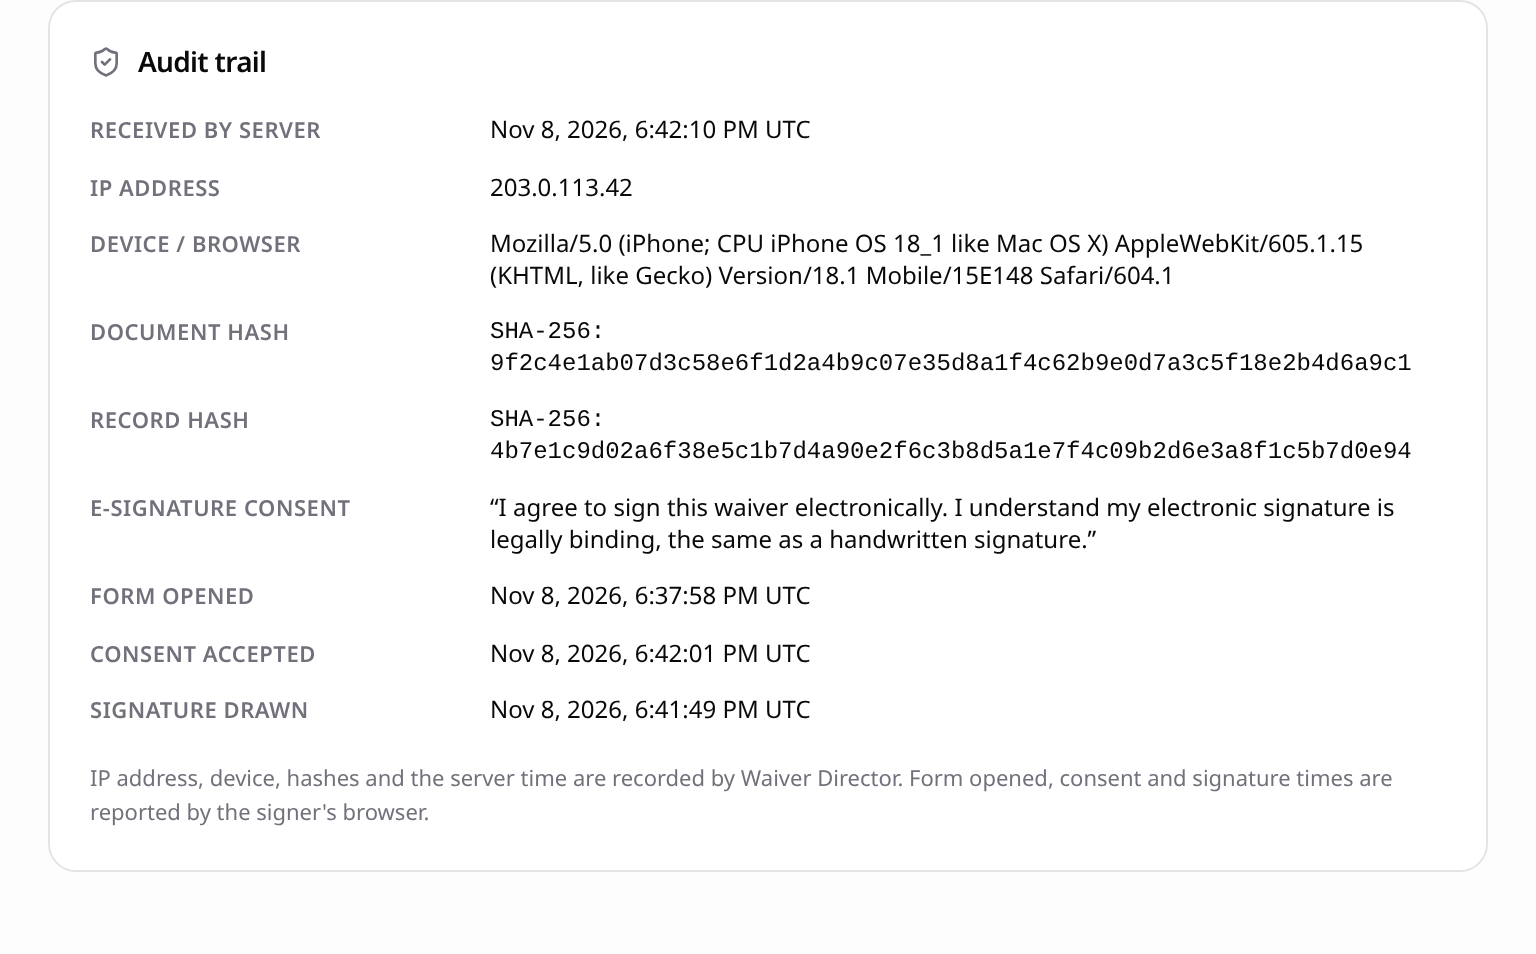
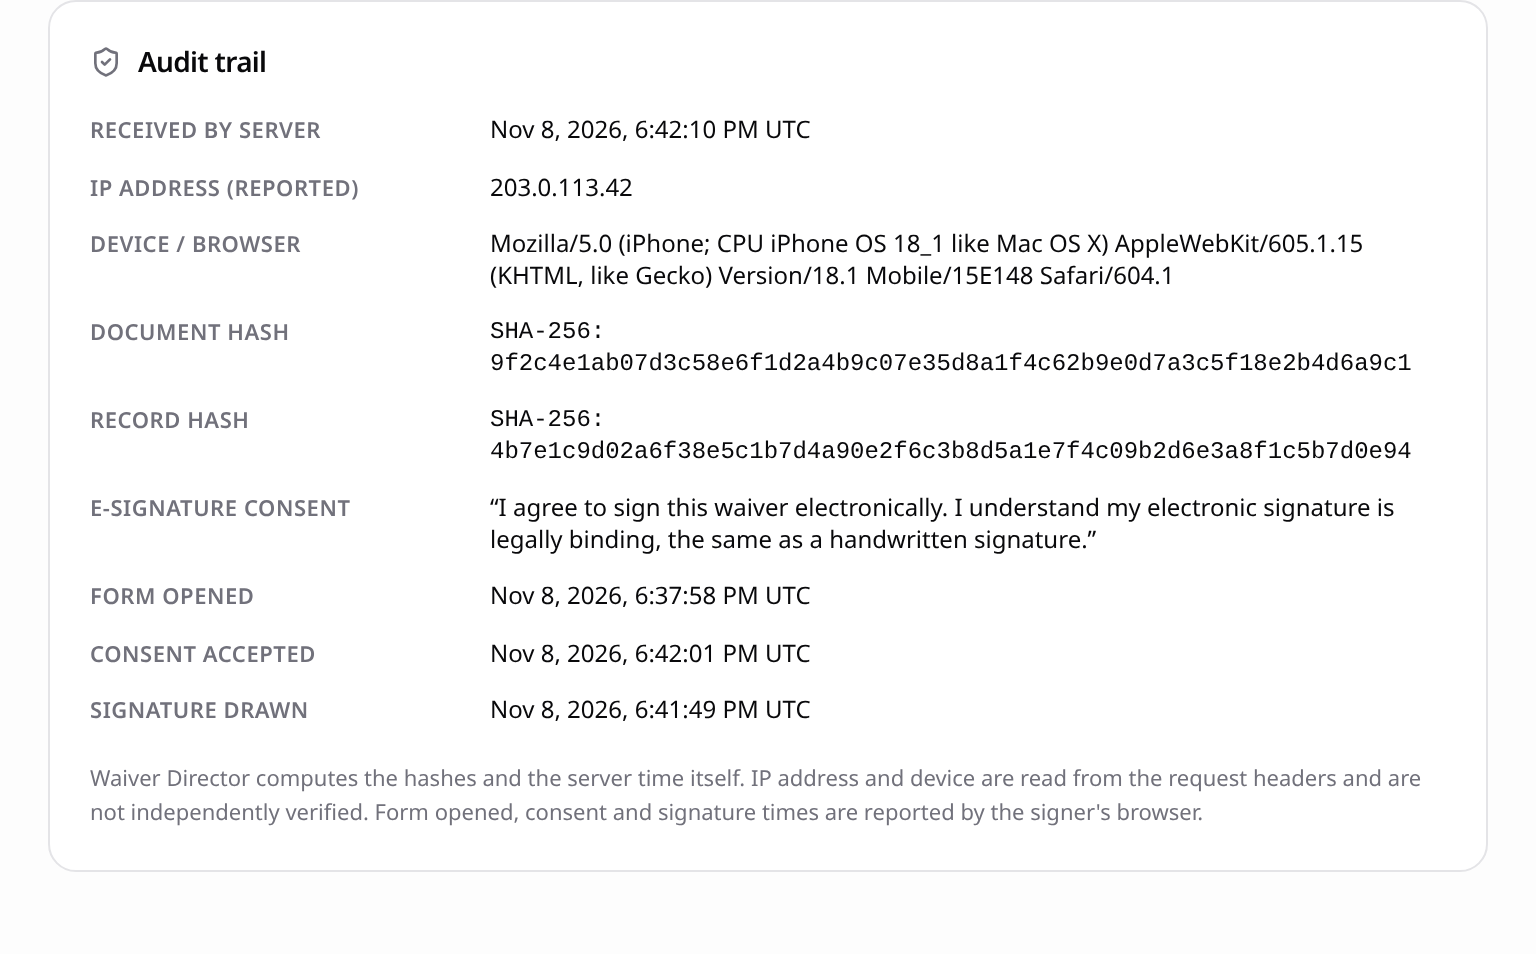
fix: stop trusting x-real-ip; require minors to be under 18
- Read the client IP only from the last x-forwarded-for hop and ignore
  x-real-ip, which a client can set. Convex does not document whether its
  edge overwrites these headers, so the audit panel and docs now label the
  IP as reported by request headers rather than verified.
- Reject minor dates of birth that make the person 18 or older on the
  signing day, or that are before 1900, on the server and in the date input.
  The server accepts the signer's calendar day being one day either side of
  UTC.

Claude-Session: https://claude.ai/code/session_01NtaqKrbvdA3EqcTHo4cfhu

Changed region(s): [[0.0625, 0.7904, 0.9062, 0.8816], [0.1562, 0.1824, 0.25, 0.2128]]

diff --git a/tests/submissionAudit.test.ts b/tests/submissionAudit.test.ts
@@ -9,6 +9,7 @@ import {
 	waiverDocumentHash,
 	waiverSubmissionHash
 } from '../src/convex/lib/audit.ts';
+import { isMinorBirthDate, minorBirthDateBounds } from '../src/lib/domain/waiver-constraints.ts';
 
 function headers(values: Record<string, string>) {
 	return new Headers(values);
@@ -64,10 +65,12 @@ test('submission hash covers signer data, minors and signature', async () => {
 	);
 });
 
-test('client IP prefers x-real-ip, then the last forwarded hop', () => {
-	assert.equal(clientIpFromHeaders(headers({ 'x-real-ip': '203.0.113.9' })), '203.0.113.9');
+test('client IP uses only the last forwarded hop and ignores x-real-ip', () => {
+	assert.equal(clientIpFromHeaders(headers({ 'x-real-ip': '203.0.113.9' })), null);
 	assert.equal(
-		clientIpFromHeaders(headers({ 'x-forwarded-for': '10.0.0.1, 198.51.100.7 ' })),
+		clientIpFromHeaders(
+			headers({ 'x-real-ip': '203.0.113.9', 'x-forwarded-for': '10.0.0.1, 198.51.100.7 ' })
+		),
 		'198.51.100.7'
 	);
 	assert.equal(clientIpFromHeaders(headers({})), null);
@@ -86,4 +89,19 @@ test('client timestamps outside a plausible window are dropped', () => {
 	assert.equal(sanitizeClientTimestamp(now - 2 * 24 * 60 * 60 * 1000, now), null);
 	assert.equal(sanitizeClientTimestamp(Number.NaN, now), null);
 	assert.equal(sanitizeClientTimestamp(undefined, now), null);
+});
+
+test('minor birth dates must be under 18 on the signing day and not before 1900', () => {
+	const today = '2026-11-08';
+	assert.deepEqual(minorBirthDateBounds(today), { min: '2008-11-09', max: '2026-11-08' });
+	assert.equal(isMinorBirthDate('2015-06-03', today), true);
+	assert.equal(isMinorBirthDate('2008-11-09', today), true);
+	assert.equal(isMinorBirthDate('2008-11-08', today), false, 'turns 18 today');
+	assert.equal(isMinorBirthDate('1975-01-01', today), false);
+	assert.equal(isMinorBirthDate('2026-11-09', today), false, 'future');
+	assert.equal(isMinorBirthDate('2015-02-30', today), false, 'invalid date');
+	assert.equal(minorBirthDateBounds('1910-03-01').min, '1900-01-01');
+	// Leap-day birthdays: born 2008-02-29 is still a minor on 2026-02-28.
+	assert.equal(isMinorBirthDate('2008-02-29', '2026-02-28'), true);
+	assert.equal(isMinorBirthDate('2008-02-29', '2026-03-01'), false);
 });

diff --git a/src/convex/lib/waivers.ts b/src/convex/lib/waivers.ts
@@ -18,6 +18,7 @@ import {
 	MIN_WAIVER_FIELD_LABEL_LENGTH,
 	MIN_WAIVER_TITLE_LENGTH
 } from '../../lib/domain/waiver-constraints';
+import { isMinorBirthDate, isValidIsoDate } from '../../lib/domain/waiver-constraints';
 
 type FunctionCtx = QueryCtx | MutationCtx;
 
@@ -412,25 +413,28 @@ export function validateMinors(minors: MinorInput[]): MinorInput[] {
 				message: 'Enter a date of birth for each minor.'
 			});
 		}
-		if (!isValidIsoDate(dateOfBirth) || dateOfBirth > todayIsoDate()) {
+		if (!isValidIsoDate(dateOfBirth)) {
 			throw new ConvexError({
 				code: 'invalid_argument',
 				message: 'Enter a valid date of birth for each minor.'
+			});
+		}
+		// The signer's calendar day may be a day either side of UTC, so accept the
+		// date if it is a minor's birth date on any of those days.
+		if (!signingDaysAroundUtc().some((today) => isMinorBirthDate(dateOfBirth, today))) {
+			throw new ConvexError({
+				code: 'invalid_argument',
+				message: `Each minor must be under 18. Check ${fullName}'s date of birth.`
 			});
 		}
 		return { fullName, dateOfBirth };
 	});
 }
 
-function isValidIsoDate(value: string) {
-	if (!/^\d{4}-\d{2}-\d{2}$/.test(value)) return false;
-	const parsed = new Date(`${value}T00:00:00Z`);
-	return !isNaN(parsed.getTime()) && parsed.toISOString().slice(0, 10) === value;
-}
-
-function todayIsoDate() {
-	// Allow one day of slack so signers ahead of UTC are not rejected.
-	return new Date(Date.now() + 24 * 60 * 60 * 1000).toISOString().slice(0, 10);
+function signingDaysAroundUtc() {
+	const dayMs = 24 * 60 * 60 * 1000;
+	const now = Date.now();
+	return [now - dayMs, now, now + dayMs].map((ms) => new Date(ms).toISOString().slice(0, 10));
 }
 
 export function normalizePublicSlug(value: string): string {

diff --git a/src/lib/domain/waiver-constraints.ts b/src/lib/domain/waiver-constraints.ts
@@ -10,3 +10,36 @@ export const MAX_SELECT_OPTION_LABEL_LENGTH = 80;
 export const MAX_MINORS = 50;
 export const MIN_MINOR_NAME_LENGTH = 2;
 export const MAX_MINOR_NAME_LENGTH = 120;
+
+/** Age at which a participant is no longer a minor. */
+export const MINOR_AGE_LIMIT_YEARS = 18;
+export const MIN_MINOR_BIRTH_DATE = '1900-01-01';
+
+export function isValidIsoDate(value: string): boolean {
+	if (!/^\d{4}-\d{2}-\d{2}$/.test(value)) return false;
+	const parsed = new Date(`${value}T00:00:00Z`);
+	return !isNaN(parsed.getTime()) && parsed.toISOString().slice(0, 10) === value;
+}
+
+function isoDate(year: number, monthIndex: number, day: number): string {
+	return new Date(Date.UTC(year, monthIndex, day)).toISOString().slice(0, 10);
+}
+
+/**
+ * Inclusive ISO date bounds for a minor's date of birth on a given signing day
+ * (`today` is a YYYY-MM-DD string in the signer's calendar). The earliest date
+ * is the day after the person would turn 18; the latest is today.
+ */
+export function minorBirthDateBounds(today: string): { min: string; max: string } {
+	const [year, month, day] = today.split('-').map(Number);
+	// Day after the 18th birthday cutoff: someone born exactly 18 years ago is an adult.
+	const min = isoDate(year - MINOR_AGE_LIMIT_YEARS, month - 1, day + 1);
+	return { min: min < MIN_MINOR_BIRTH_DATE ? MIN_MINOR_BIRTH_DATE : min, max: today };
+}
+
+/** True when `dateOfBirth` makes the person under 18 on `today` (both YYYY-MM-DD). */
+export function isMinorBirthDate(dateOfBirth: string, today: string): boolean {
+	if (!isValidIsoDate(dateOfBirth)) return false;
+	const { min, max } = minorBirthDateBounds(today);
+	return dateOfBirth >= min && dateOfBirth <= max;
+}

diff --git a/src/convex/lib/audit.ts b/src/convex/lib/audit.ts
@@ -103,27 +103,23 @@ export function normalizeForwardedFor(value: string | null | undefined): string 
 }
 
 /**
- * Best-effort client IP from request headers.
+ * Best-effort client IP from request headers: the last `x-forwarded-for` hop,
+ * which is the address appended by the nearest proxy. Earlier hops, and headers
+ * such as `x-real-ip`, can be set by the client and are ignored.
  *
- * Prefers `x-real-ip` (set by the edge, not the client). Falls back to the
- * last `x-forwarded-for` hop, which is the address the nearest trusted proxy
- * observed; earlier hops are client-supplied and can be spoofed. The raw
- * `x-forwarded-for` chain is stored separately for review.
+ * Convex does not document whether its HTTP edge sets or overwrites
+ * `x-forwarded-for`, so this value is stored and shown as reported by request
+ * headers, not as independently verified. The raw chain is stored separately.
  */
 export function clientIpFromHeaders(headers: { get(name: string): string | null }): string | null {
-	const realIp = headers.get('x-real-ip')?.trim();
-	if (realIp) return truncate(realIp, MAX_IP_LENGTH);
-
 	const forwardedFor = headers.get('x-forwarded-for');
-	if (forwardedFor) {
-		const hops = forwardedFor
-			.split(',')
-			.map((hop) => hop.trim())
-			.filter(Boolean);
-		const last = hops.at(-1);
-		if (last) return truncate(last, MAX_IP_LENGTH);
-	}
-	return null;
+	if (!forwardedFor) return null;
+	const last = forwardedFor
+		.split(',')
+		.map((hop) => hop.trim())
+		.filter(Boolean)
+		.at(-1);
+	return last ? truncate(last, MAX_IP_LENGTH) : null;
 }
 
 /**

diff --git a/src/lib/components/waivers/SubmissionAuditTrail.svelte b/src/lib/components/waivers/SubmissionAuditTrail.svelte
@@ -45,7 +45,7 @@
 				<dt class={rowLabelClass}>Received by server</dt>
 				<dd class={rowValueClass}>{formatTimestamp(audit.receivedAt)}</dd>
 
-				<dt class={rowLabelClass}>IP address</dt>
+				<dt class={rowLabelClass}>IP address (reported)</dt>
 				<dd class={rowValueClass}>{audit.ipAddress ?? 'Not recorded'}</dd>
 
 				{#if audit.forwardedFor && audit.forwardedFor !== audit.ipAddress}
@@ -79,8 +79,9 @@
 				<dd class={rowValueClass}>{formatTimestamp(audit.clientSignatureCompletedAt)}</dd>
 			</dl>
 			<p class="mt-4 text-[11px] leading-relaxed text-muted-foreground">
-				IP address, device, hashes and the server time are recorded by Waiver Director. Form opened,
-				consent and signature times are reported by the signer's browser.
+				Waiver Director computes the hashes and the server time itself. IP address and device are
+				read from the request headers and are not independently verified. Form opened, consent and
+				signature times are reported by the signer's browser.
 			</p>
 		{/if}
 	</div>

diff --git a/src/lib/components/waivers/PublicWaiverForm.svelte b/src/lib/components/waivers/PublicWaiverForm.svelte
@@ -16,6 +16,7 @@
 		waiverUnderlineTextareaClass
 	} from '$lib/components/waivers/waiver-public-form-classes';
 	import type { WaiverField, WaiverMinor, WaiverTheme } from '$lib/domain/waivers';
+	import { minorBirthDateBounds } from '$lib/domain/waiver-constraints';
 	import { formatBookingTimestamp } from '$lib/utils/date';
 
 	type PublicWaiver = {
@@ -333,7 +334,9 @@
 													type="date"
 													class={waiverUnderlineInputClass}
 													bind:value={minor.dateOfBirth}
+													min={minorBirthDateBounds(todayIsoDate()).min}
 													max={todayIsoDate()}
+													title="Minors must be under 18"
 													required
 												/>
 											</div>
